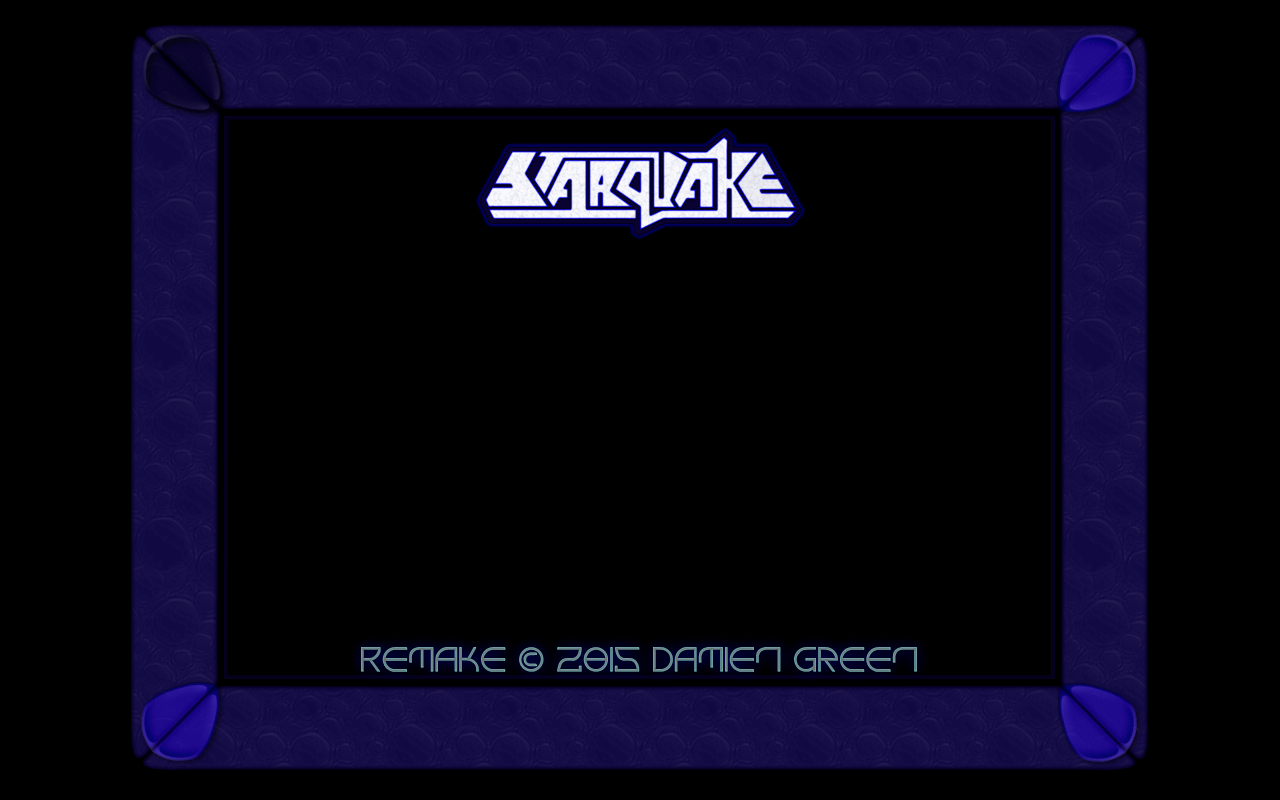
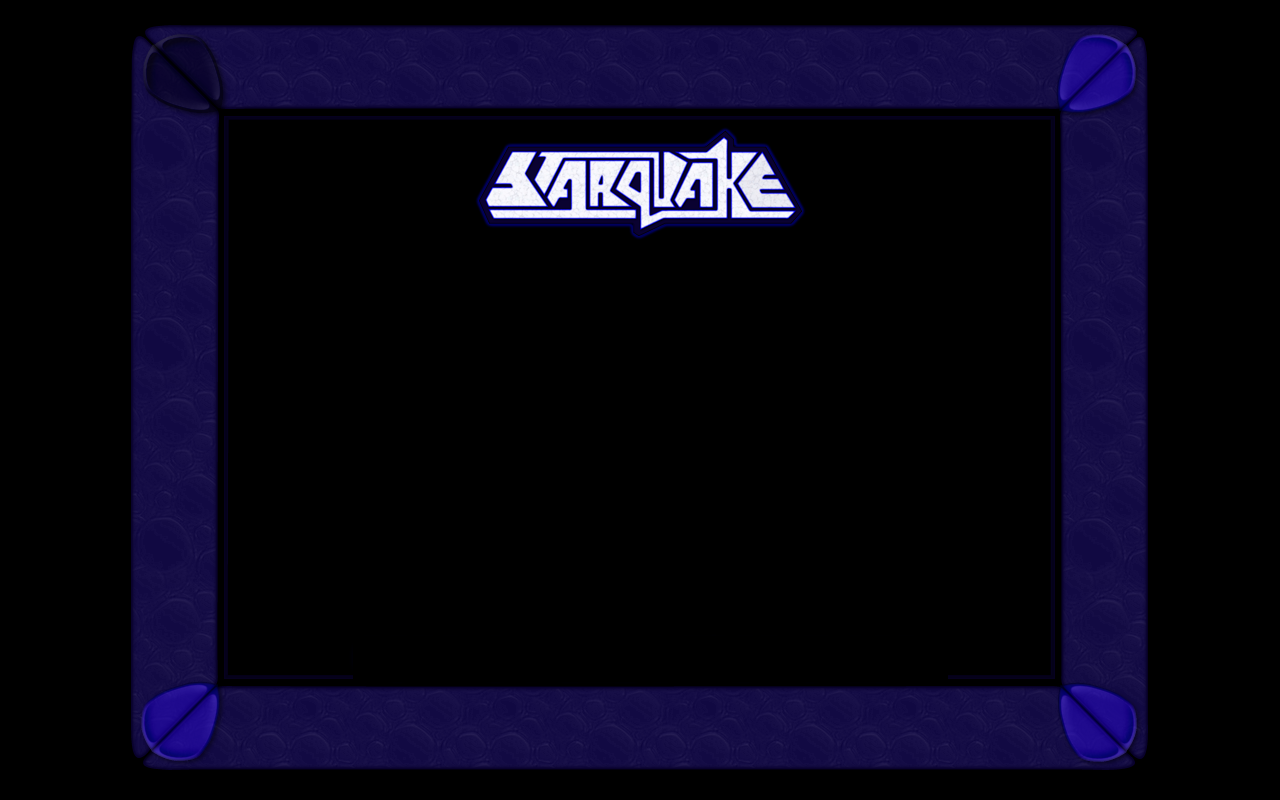
The options screen's credit line was painted art with the year patched over it
"REMAKE (c) 2015 DAMIEN GREEN" was baked into OptionsScreenBackground.png, and
the screen drew "2017" at a hard-coded x over the top of it. That only held
together because 2015 and 2017 share their first three glyphs, so the patch
landed exactly on the painted digits and swapped the last one. 2026 changes the
third: a "1" carries 3 pixels of ink where a "2" carries 25, which pushed the
rest of the patch into DAMIEN and left the painted "15" showing behind it.

The line is text now. The painted copy is gone from the artwork and the whole
string is written with WriteTextCentred, the way the other presentation screens
write theirs, so the year is just four characters in it rather than something
aimed at the pixels underneath.

That needs a copyright sign, and the font was built for ASCII 32 to 126 with no
DefaultCharacter to stand in - a character outside the regions is an exception
at the draw call, not a gap on the screen - so elektoraMedium now asks for one
more. The glyph was already in elektora.ttf.

It sits where the painted line did: capitals on rows 647 to 671, centred within
a pixel of the old centre. It is wider - 640 pixels against 556 - because the
painting was tracked tighter by hand than the font spaces itself, tight enough
that the "1" of 2015 took five pixels of advance. Matching the options list
above it is worth more than matching artwork that is no longer there.

Assets/ has the cleared artwork too, per BUILD.md.

Changed region(s): [[0.2812, 0.7812, 0.7188, 0.875]]

diff --git a/Starquake.Shared/GameComponents/PresentationScreens/OptionsScreen.cs b/Starquake.Shared/GameComponents/PresentationScreens/OptionsScreen.cs
@@ -144,7 +144,7 @@ internal class OptionsScreen : GameScreenBase, IGameScreen
             _keyDefiner.Draw(ScreenFade);
         }
 
-        Font.WriteText(555, 640, "2017", 2, new Color(112, 155, 155), (byte)ScreenFade);
+        Font.WriteTextCentred(1280, 640, "Remake © 2026 Damien Green", 2, new Color(112, 155, 155), (byte)ScreenFade);
 
         Font.End();
 
